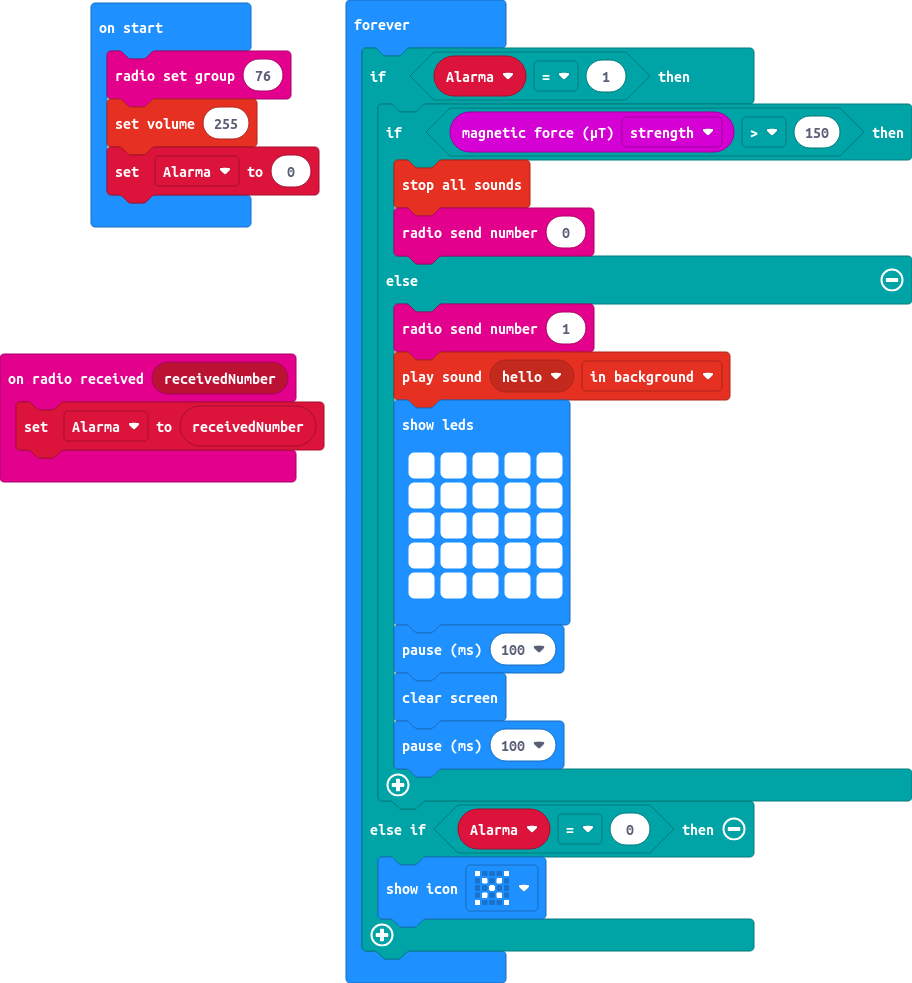
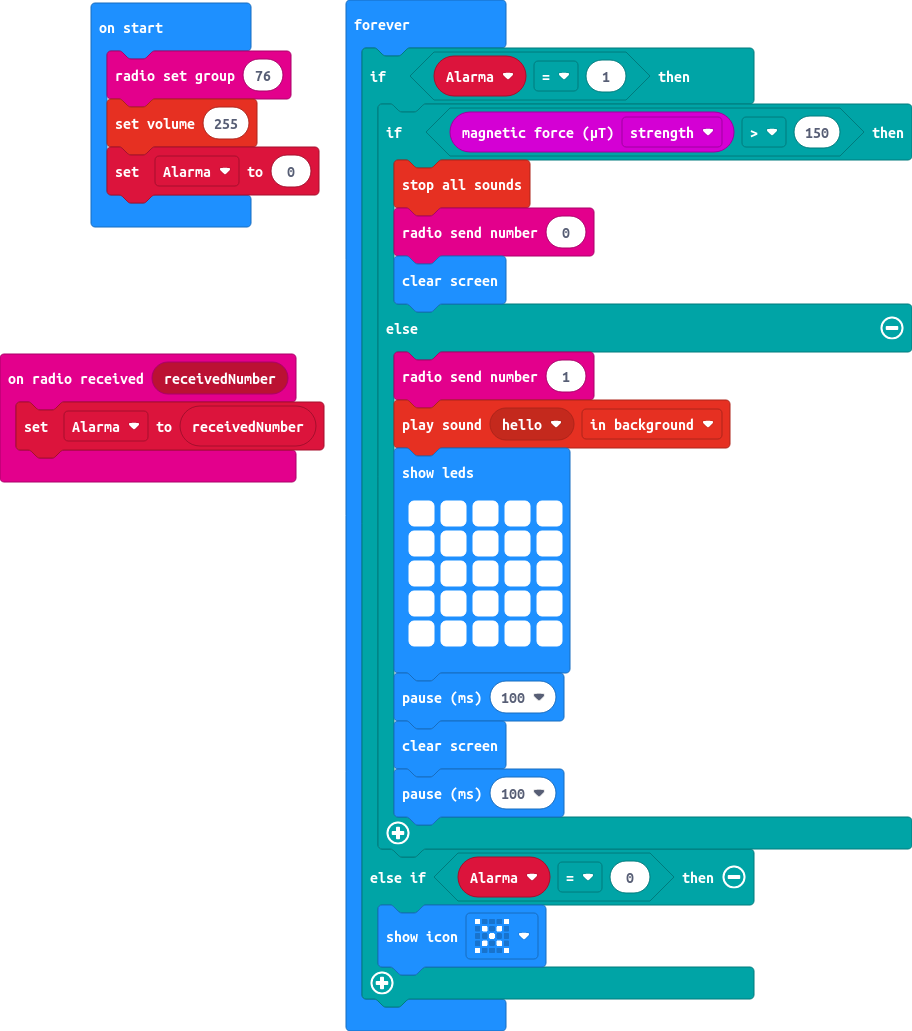
Update main.blocks, main.ts

Changed region(s): [[0.3991, 0.0, 1.0, 0.9766], [0.0, 0.3357, 0.3684, 0.4883], [0.0921, 0.0, 0.3684, 0.2442]]

diff --git a/main.ts b/main.ts
@@ -10,6 +10,7 @@ basic.forever(function () {
         if (input.magneticForce(Dimension.Strength) > 150) {
             music.stopAllSounds()
             radio.sendNumber(0)
+            basic.clearScreen()
         } else {
             radio.sendNumber(1)
             music.playSoundEffect(music.builtinSoundEffect(soundExpression.hello), SoundExpressionPlayMode.InBackground)
